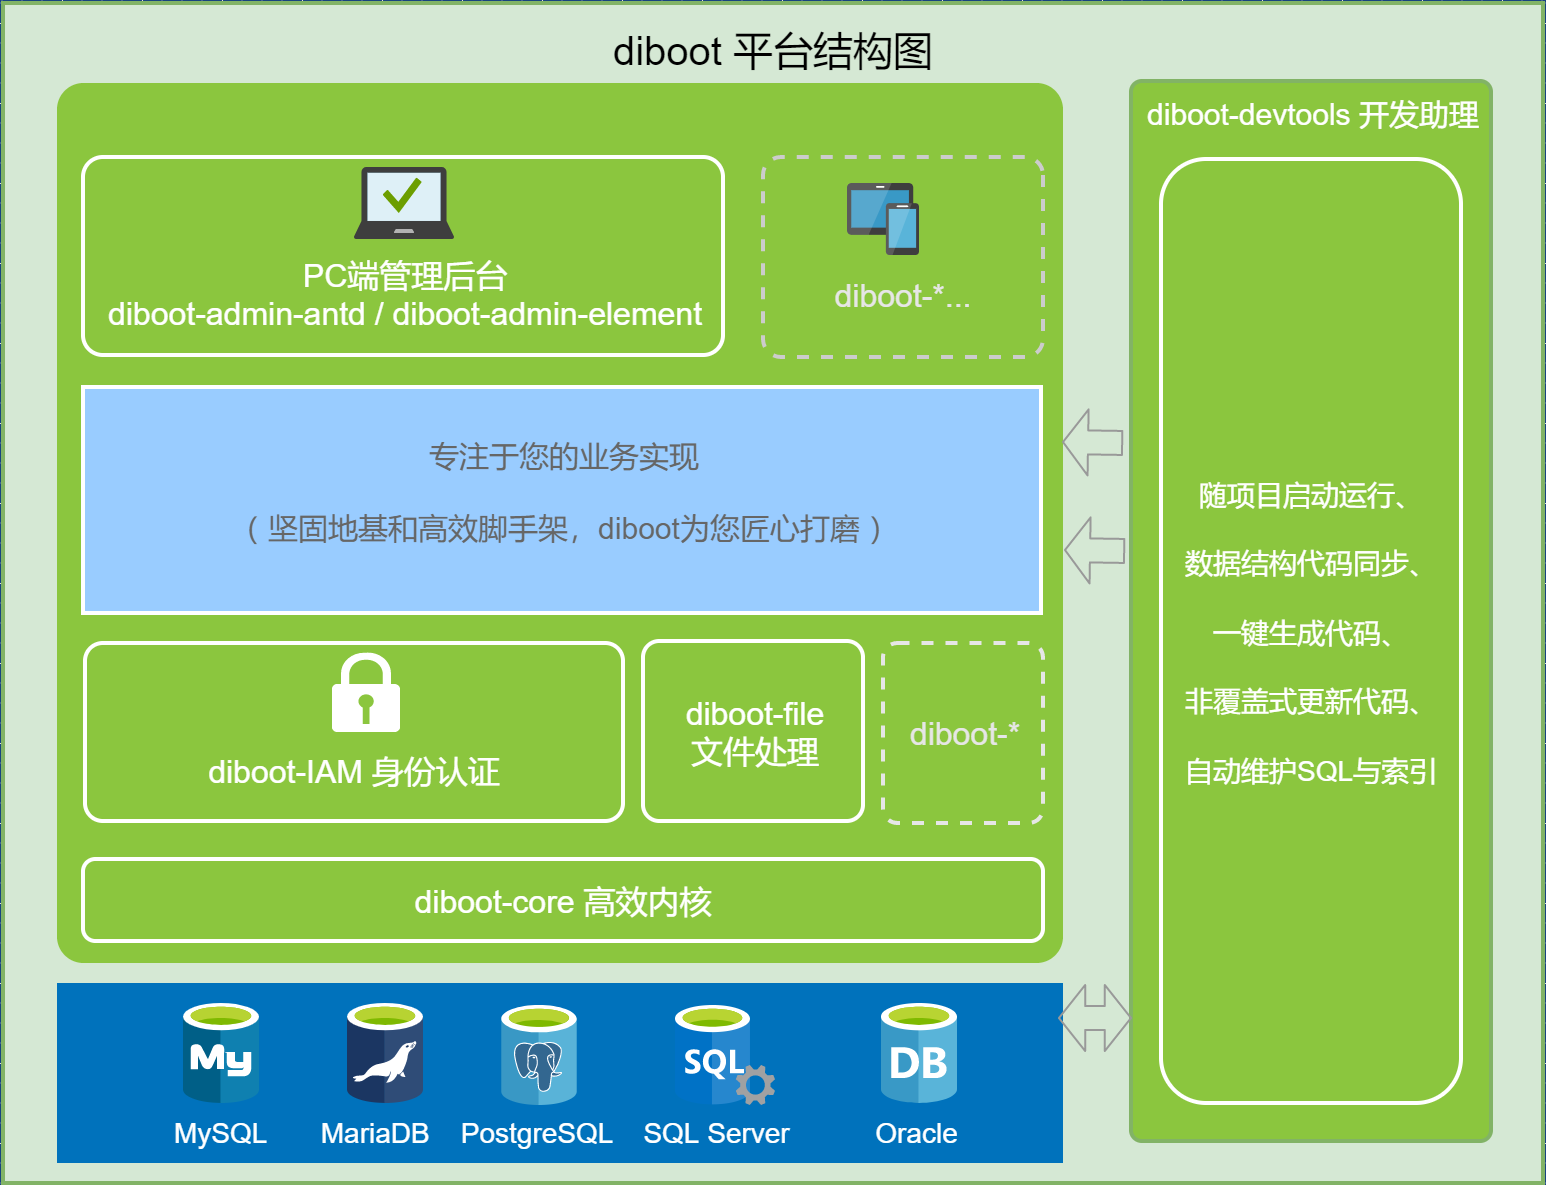
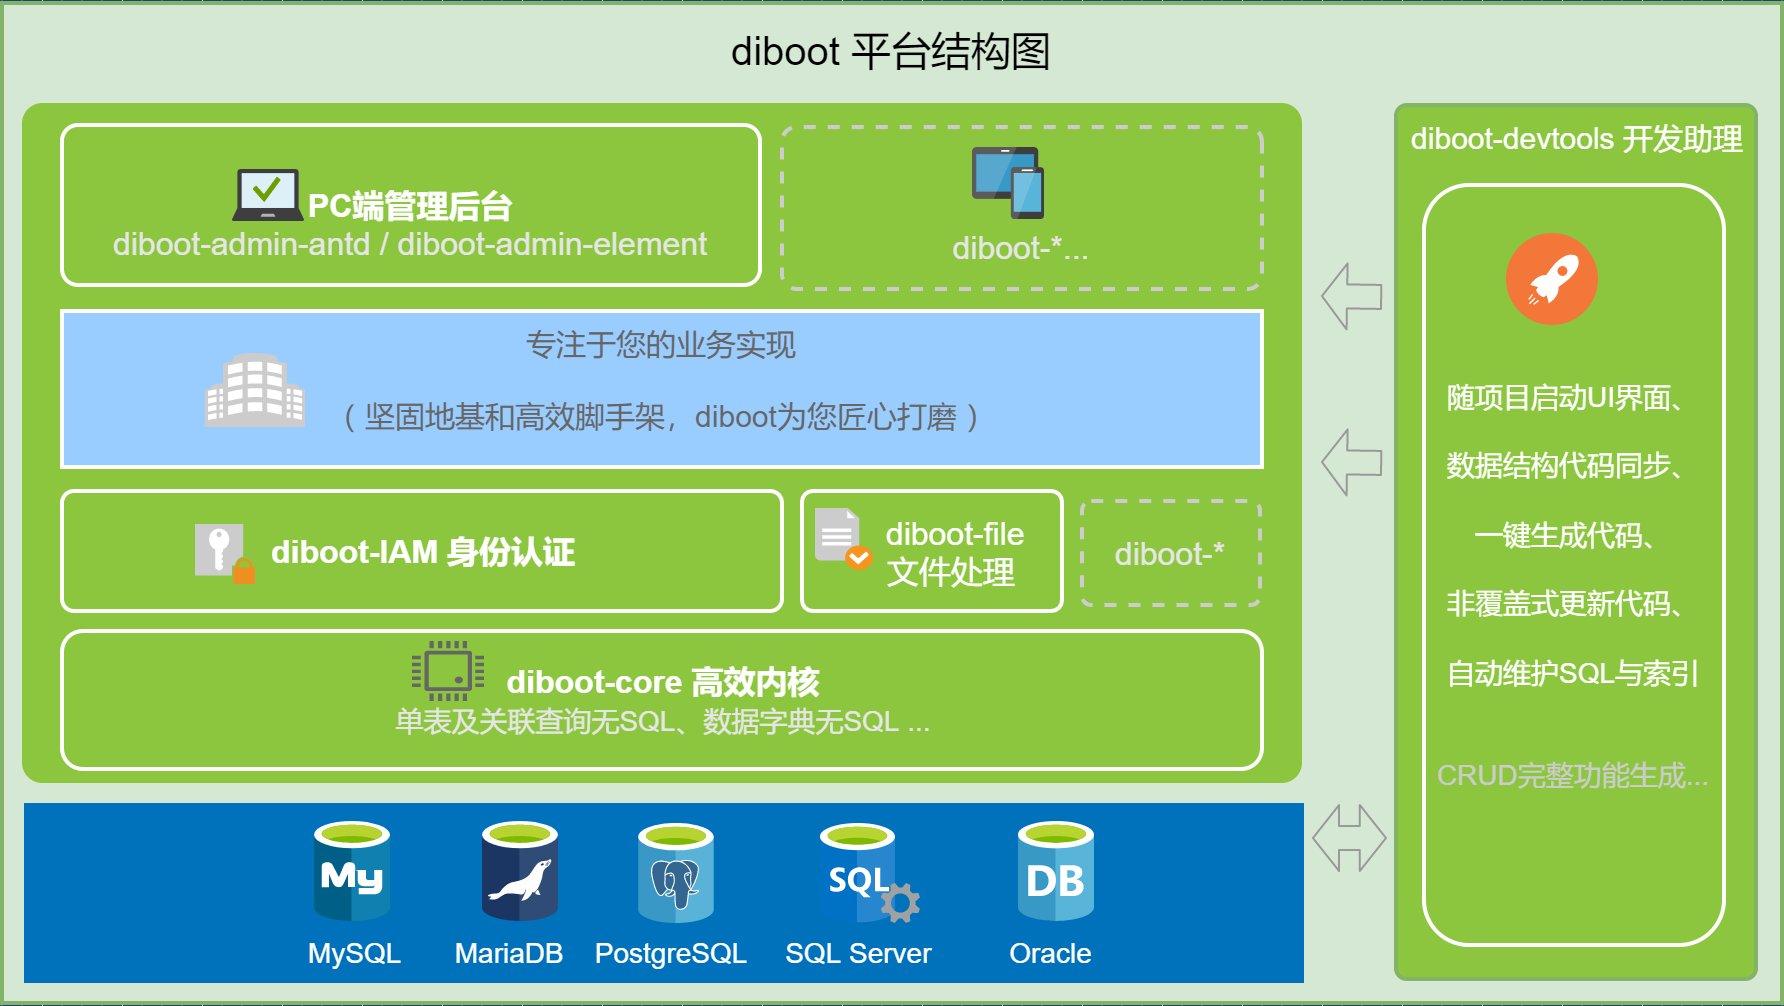
更新结构图

diff --git a/README.md b/README.md
@@ -12,7 +12,7 @@
 
 >  [设计目标](https://segmentfault.com/a/1190000020906742)：面向开发人员的低代码开发平台，将重复性的工作自动化，提高质量、效率、可维护性。
 
-![diboot平台组成结构图](diboot-docs/guide/diboot-core/images/structure.png)
+![diboot平台组成结构图](diboot-docs/.vuepress/public/structure.png)
 diboot v2版本，目前实现: diboot-core全新内核 + diboot-devtools开发助理 + IAM身份认证、file文件处理等基础组件 + diboot-admin基础后台。
 
 ## 一、 diboot-core: 精简优化内核
